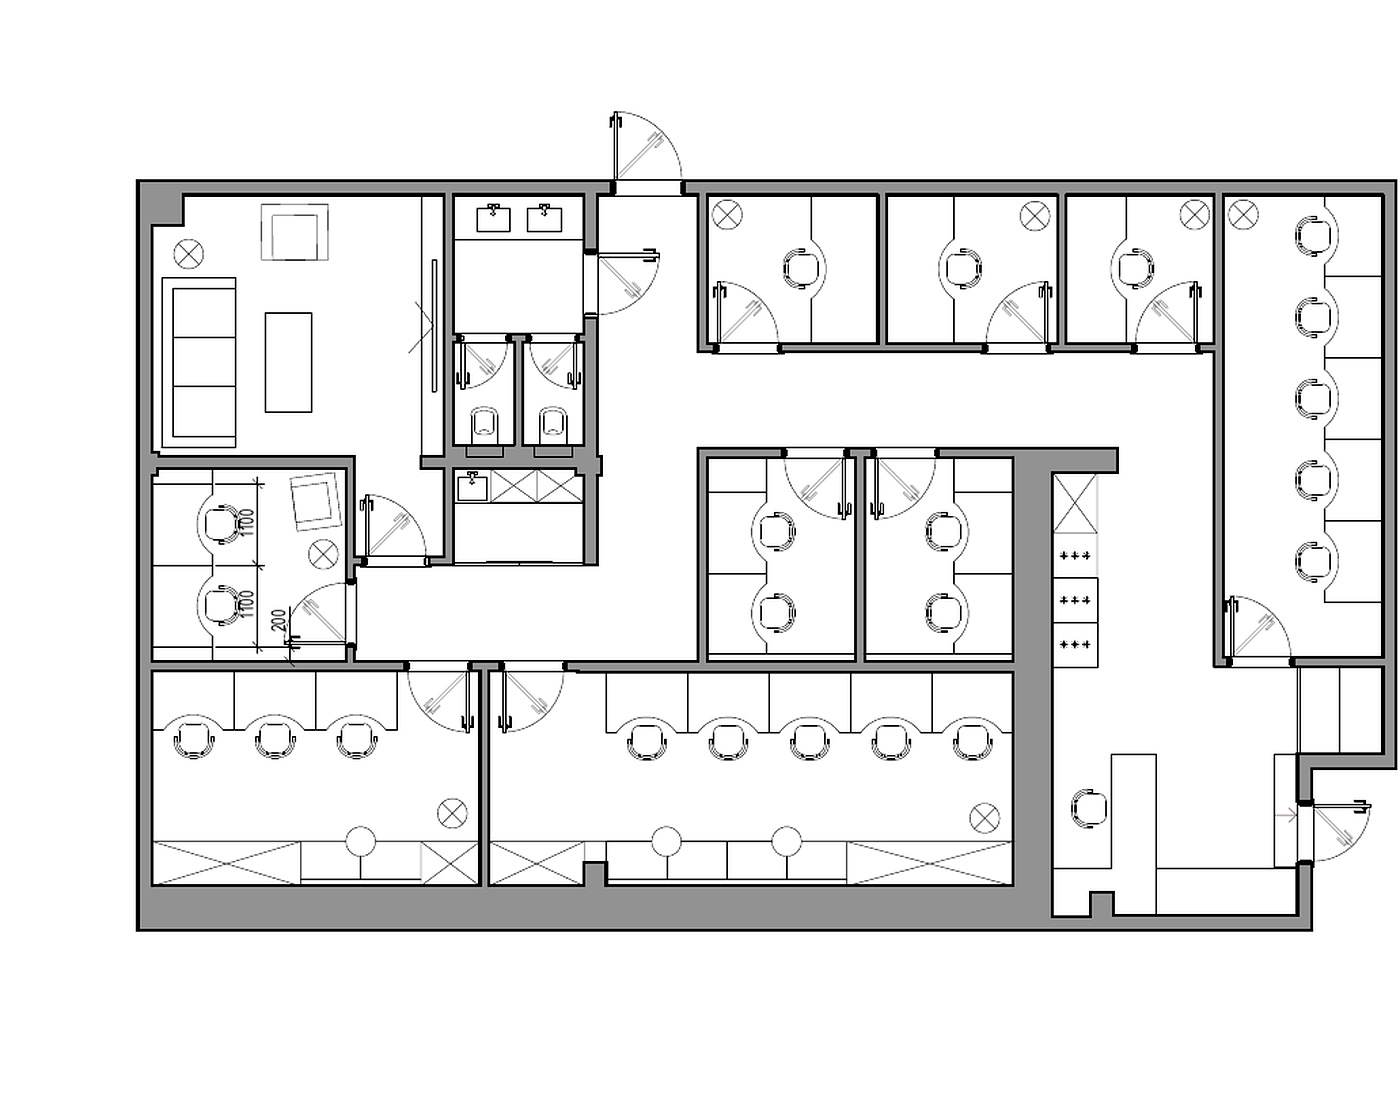
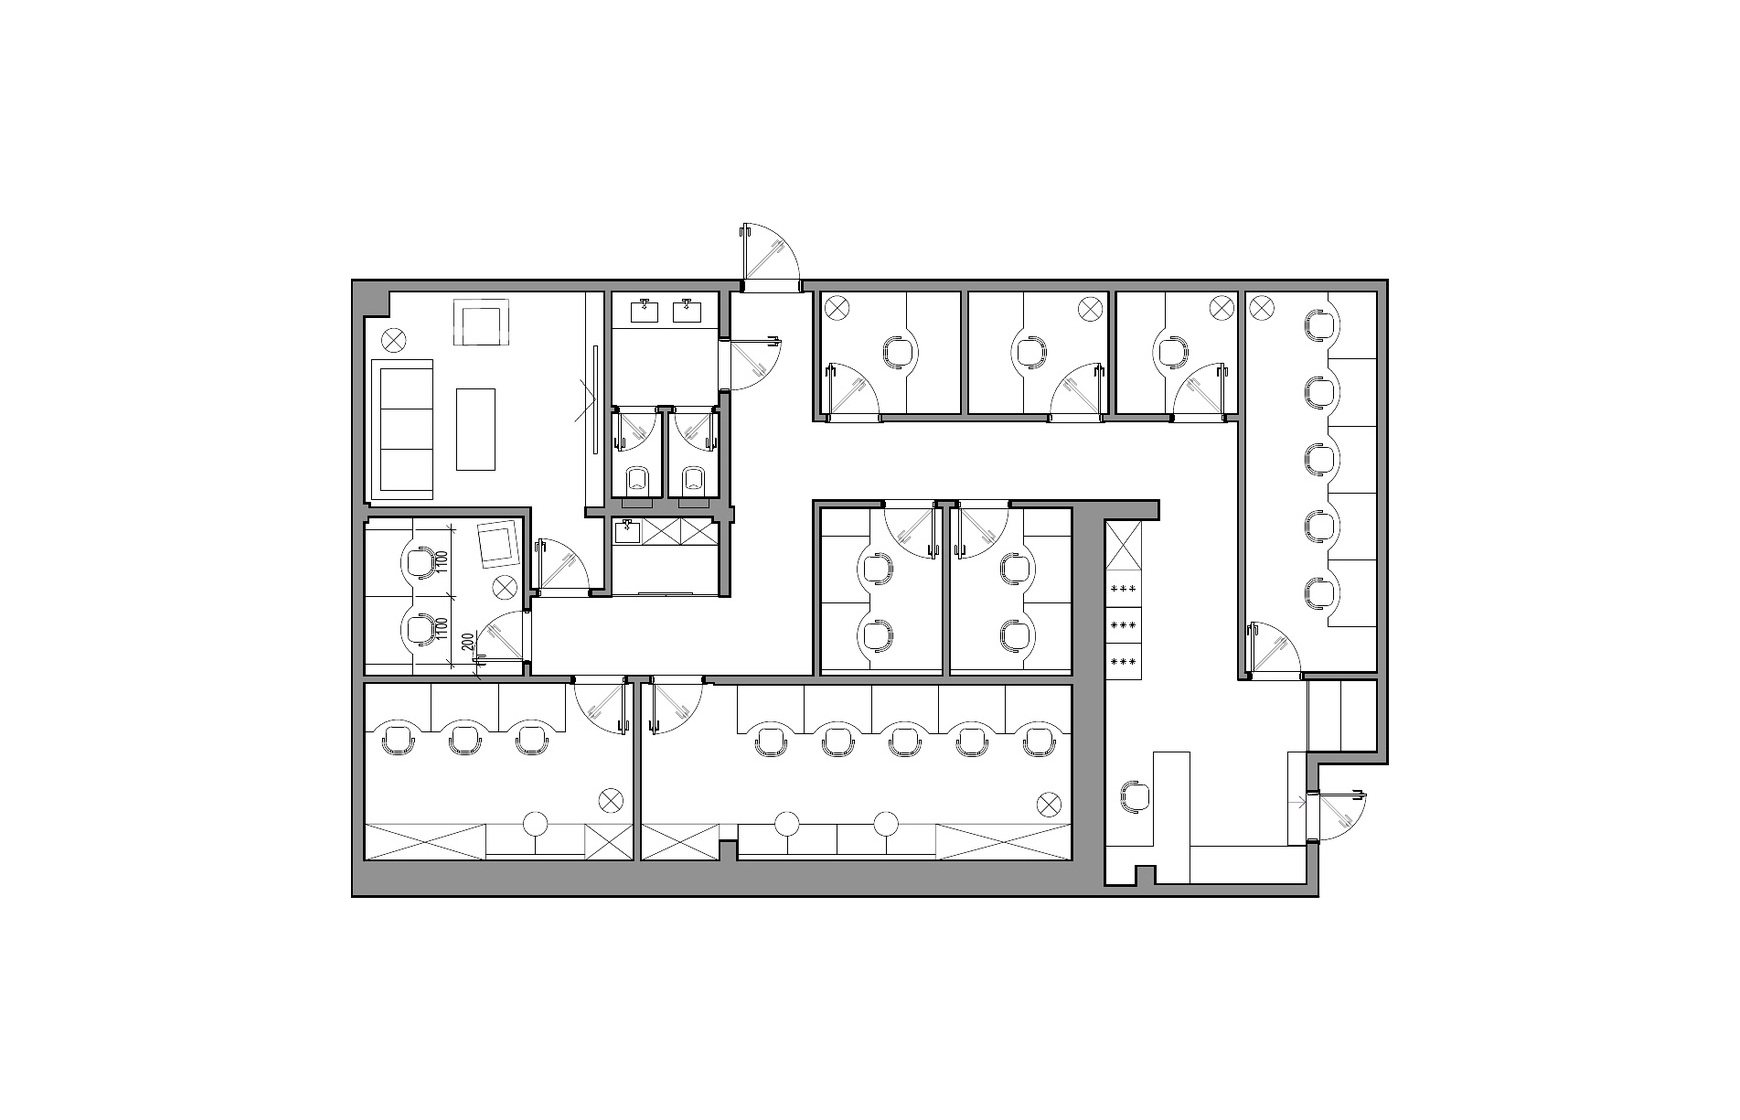
Add files via upload

Changed region(s): [[0.0921, 0.0931, 1.0, 0.8686], [0.9214, 0.4964, 0.9521, 0.5274]]

diff --git a/tilda/f4-tilda-custom-code.html b/tilda/f4-tilda-custom-code.html
@@ -411,6 +411,10 @@
   padding: clamp(24px, 4vw, 48px);
 }
 
+#f4-tilda-site .plan__copy h2 {
+  font-size: clamp(30px, 3.8vw, 52px);
+}
+
 #f4-tilda-site .check-list {
   display: grid;
   gap: 14px;
@@ -454,7 +458,8 @@
   width: 100%;
   height: 100%;
   min-height: 430px;
-  object-fit: cover;
+  background: #fff;
+  object-fit: contain;
 }
 
 #f4-tilda-site .plan__image span,
@@ -680,7 +685,7 @@
 
     <header class="site-header">
       <a class="brand" href="#f4-top" aria-label="Ф4 Пушкино">
-        <img src="__ASSET_BASE_URL__/logo-f4.svg" alt="Ф4 компьютерный клуб" />
+        <img src="__ASSET_BASE_URL__/logo-f4-brandbook.png" alt="Ф4 компьютерный клуб" />
       </a>
       <nav class="nav" aria-label="Главная навигация">
         <a href="#f4-advantages">Почему Ф4</a>
@@ -833,7 +838,7 @@
       <section class="section plan" id="f4-plan">
         <div class="plan__copy">
           <p class="eyebrow">Что внутри</p>
-          <h2>Все рядом: компьютеры, отдых, напитки и администратор</h2>
+          <h2>Все рядом: PC, отдых и напитки</h2>
           <ul class="check-list">
             <li>Можно играть одному, вдвоем или прийти большой компанией.</li>
             <li>Есть отдельное место, где удобно отдохнуть и дождаться друзей.</li>
@@ -893,7 +898,7 @@
     </main>
 
     <footer class="site-footer">
-      <img src="__ASSET_BASE_URL__/logo-f4.svg" alt="Ф4 компьютерный клуб" />
+      <img src="__ASSET_BASE_URL__/logo-f4-brandbook.png" alt="Ф4 компьютерный клуб" />
       <p>Ф4 Пушкино · Московская область, Пушкино, ул. Тургенева, 1</p>
       <a href="#f4-top">Наверх</a>
     </footer>

diff --git a/index.html b/index.html
@@ -8,7 +8,7 @@
       content="Ф4 Пушкино - компьютерный клуб на ул. Тургенева, 1: место для игр, встреч с друзьями, командных матчей и отдыха."
     />
     <title>Ф4 Пушкино - компьютерный клуб</title>
-    <link rel="icon" href="assets/logo-f4.svg" />
+    <link rel="icon" href="assets/logo-f4-brandbook.png" />
     <link rel="preconnect" href="https://fonts.googleapis.com" />
     <link rel="preconnect" href="https://fonts.gstatic.com" crossorigin />
     <link
@@ -22,7 +22,7 @@
 
     <header class="site-header">
       <a class="brand" href="#top" aria-label="Ф4 Пушкино">
-        <img src="assets/logo-f4.svg" alt="Ф4 компьютерный клуб" />
+        <img src="assets/logo-f4-brandbook.png" alt="Ф4 компьютерный клуб" />
       </a>
       <nav class="nav" aria-label="Главная навигация">
         <a href="#advantages">Почему Ф4</a>
@@ -175,7 +175,7 @@
       <section class="section plan" id="plan">
         <div class="plan__copy">
           <p class="eyebrow">Что внутри</p>
-          <h2>Все рядом: компьютеры, отдых, напитки и администратор</h2>
+          <h2>Все рядом: PC, отдых и напитки</h2>
           <ul class="check-list">
             <li>Можно играть одному, вдвоем или прийти большой компанией.</li>
             <li>Есть отдельное место, где удобно отдохнуть и дождаться друзей.</li>
@@ -235,7 +235,7 @@
     </main>
 
     <footer class="site-footer">
-      <img src="assets/logo-f4.svg" alt="Ф4 компьютерный клуб" />
+      <img src="assets/logo-f4-brandbook.png" alt="Ф4 компьютерный клуб" />
       <p>Ф4 Пушкино · Московская область, Пушкино, ул. Тургенева, 1</p>
       <a href="#top">Наверх</a>
     </footer>

diff --git a/styles.css b/styles.css
@@ -406,6 +406,10 @@ p {
   padding: clamp(24px, 4vw, 48px);
 }
 
+.plan__copy h2 {
+  font-size: clamp(30px, 3.8vw, 52px);
+}
+
 .check-list {
   display: grid;
   gap: 14px;
@@ -449,7 +453,8 @@ p {
   width: 100%;
   height: 100%;
   min-height: 430px;
-  object-fit: cover;
+  background: #fff;
+  object-fit: contain;
 }
 
 .plan__image span,